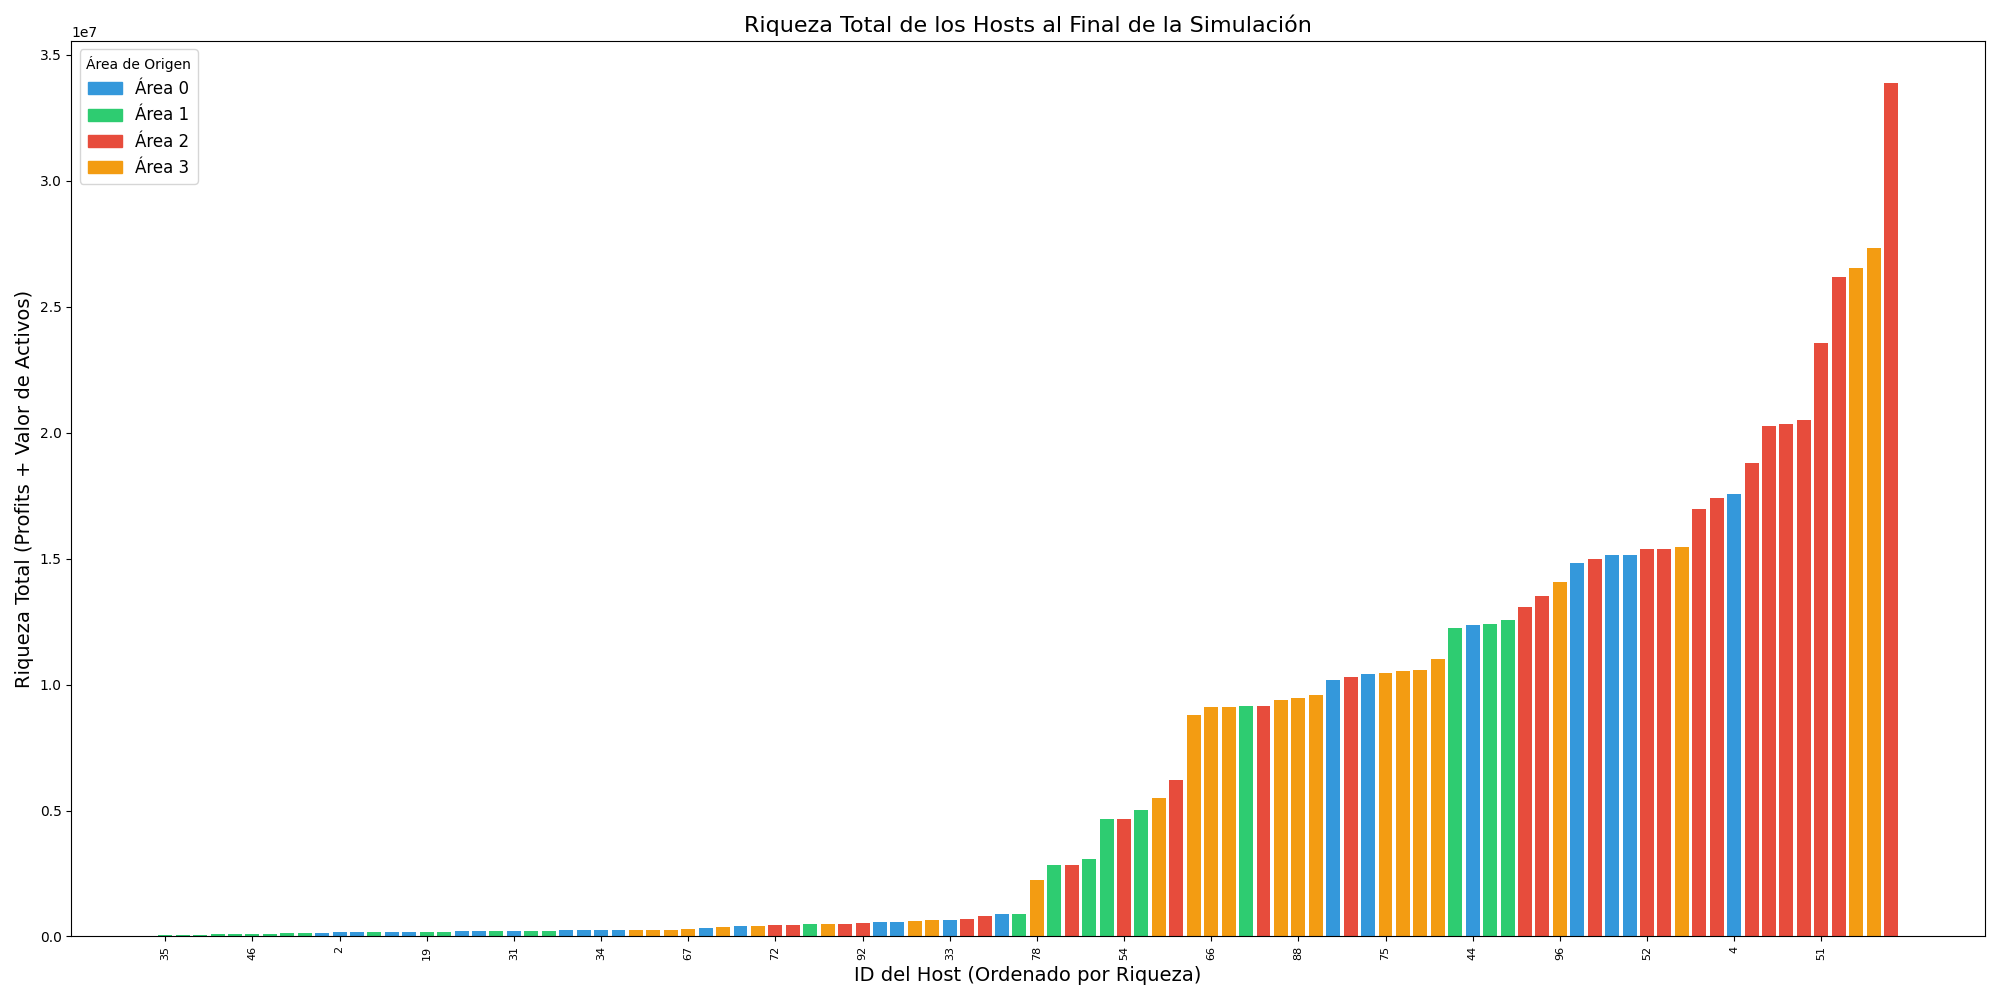
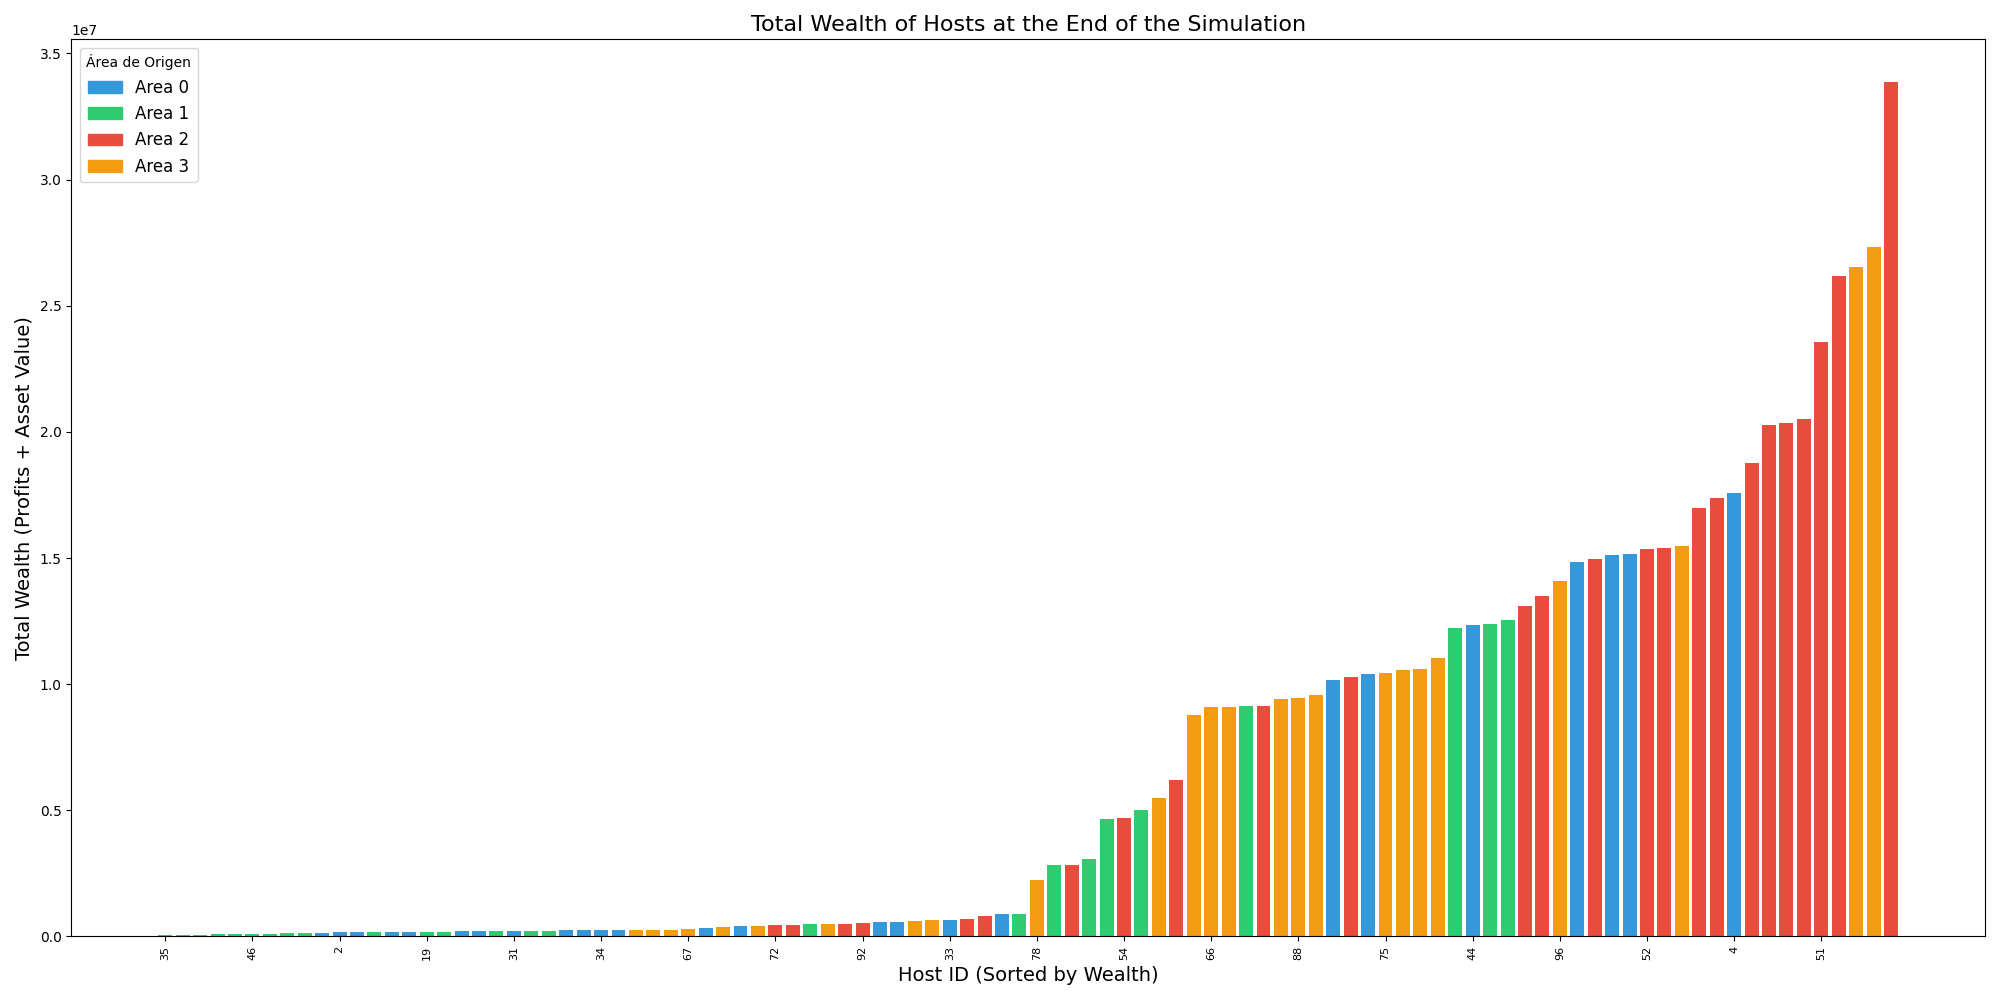
other corrections

diff --git a/main.py b/main.py
@@ -80,13 +80,13 @@ def generate_graph1(wealth_df, filename="reports/graph1.png"):
     # 3. Graficar
     plt.bar(wealth_df['host_id'].astype(str), wealth_df['wealth'], color=bar_colors)
     
-    plt.title('Riqueza Total de los Hosts al Final de la Simulación', fontsize=16)
-    plt.xlabel('ID del Host (Ordenado por Riqueza)', fontsize=14)
-    plt.ylabel('Riqueza Total (Profits + Valor de Activos)', fontsize=14)
+    plt.title('Total Wealth of Hosts at the End of the Simulation', fontsize=16)
+    plt.xlabel('Host ID (Sorted by Wealth)', fontsize=14)
+    plt.ylabel('Total Wealth (Profits + Asset Value)', fontsize=14)
     
     # 4. Leyenda para los colores de las áreas
     handles = [plt.Rectangle((0,0),1,1, color=colors[area]) for area in colors]
-    labels = [f'Área {area}' for area in colors]
+    labels = [f'Area {area}' for area in colors]
     plt.legend(handles, labels, title='Área de Origen', fontsize=12)
     
     # Reducir ticks del eje X para mejor visualización
@@ -109,13 +109,13 @@ def generate_graph2(avg_price_history, version, filename_template="reports/graph
     plt.plot(range(1, len(avg_price_history) + 1), avg_price_history, 
              label=f'V{version} Promedio de Precio', color='purple' if version == 0 else 'green')
     
-    title = f'V{version}: Evolución del Precio de Venta Promedio de Propiedades'
+    title = f'V{version}: Evolution of the Average Sale Price'
     if version == 1:
-        title += ' (Regla Modificada: Hosts solo compran en Área de Origen)'
+        title += ' (Modified Rule: Hosts Only Buy in Their Origin Area)'
         
     plt.title(title)
-    plt.xlabel('Paso de Tiempo (Meses)')
-    plt.ylabel('Precio Promedio de Venta')
+    plt.xlabel('Time Step (Months)')
+    plt.ylabel('Average Sale Price')
     plt.grid(True, alpha=0.5)
     
     plt.tight_layout()
